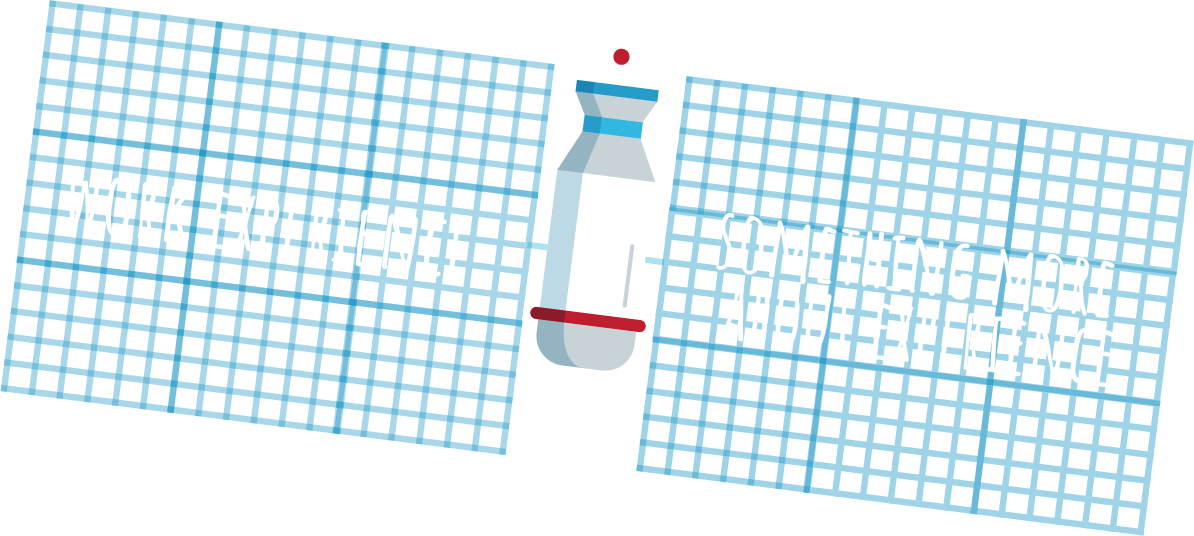
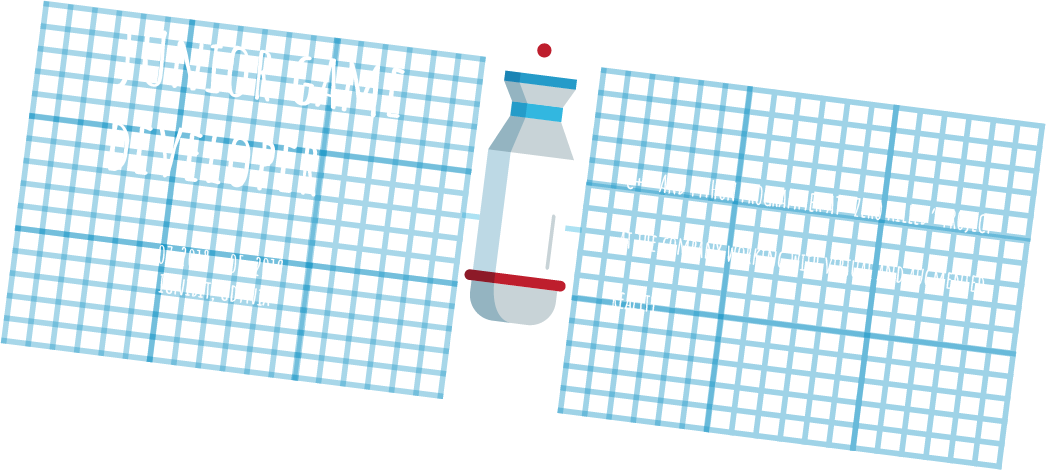
Added text

diff --git a/index.html b/index.html
@@ -75,7 +75,18 @@
                 <div class = "section-title"> Education </div>
             </div>
             <div class="center-layer">
-                <div id = "saturn"></div>
+                <div id = "saturn">
+                    <div id = "text-in-saturn">
+                        10.2016 - Now
+                        <br>
+                        Gdańsk University of Technology
+                        <br>
+                        Electronics and Telecommunication
+                        <br>
+                        Specialization:
+                        <br> Sound and Image Engineering
+                    </div>
+                </div>
             </div>
             <div class="margin-layer">
                 <table>
@@ -101,7 +112,7 @@
                             <th>
                                 <table>
                                     <tr>
-                                        <th>Skill 1</th>
+                                        <th>JavaScript</th>
                                         <th>
                                             <div class = "littlePlanet"></div>
                                             <div class = "littlePlanet"></div>
@@ -111,7 +122,7 @@
                                         </th>
                                     </tr>
                                     <tr>
-                                        <th>Skill 1</th>
+                                        <th>HTML</th>
                                         <th>
                                             <div class = "littlePlanet"></div>
                                             <div class = "littlePlanet"></div>
@@ -121,7 +132,7 @@
                                         </th>
                                     </tr>
                                     <tr>
-                                        <th>Skill 1</th>
+                                        <th>CSS</th>
                                         <th>
                                             <div class = "littlePlanet"></div>
                                             <div class = "littlePlanet"></div>
@@ -131,7 +142,7 @@
                                         </th>
                                     </tr>
                                     <tr>
-                                        <th>Skill 1</th>
+                                        <th>PHP</th>
                                         <th>
                                             <div class = "littlePlanet"></div>
                                             <div class = "littlePlanet"></div>
@@ -145,7 +156,7 @@
                             <th>
                                 <table>
                                     <tr>
-                                        <th>Skill 1</th>
+                                        <th>C++</th>
                                         <th>
                                             <div class = "littlePlanet"></div>
                                             <div class = "littlePlanet"></div>
@@ -155,7 +166,7 @@
                                         </th>
                                     </tr>
                                     <tr>
-                                        <th>Skill 1</th>
+                                        <th>C#</th>
                                         <th>
                                             <div class = "littlePlanet"></div>
                                             <div class = "littlePlanet"></div>
@@ -165,7 +176,7 @@
                                         </th>
                                     </tr>
                                     <tr>
-                                        <th>Skill 1</th>
+                                        <th>Java</th>
                                         <th>
                                             <div class = "littlePlanet"></div>
                                             <div class = "littlePlanet"></div>
@@ -175,7 +186,7 @@
                                         </th>
                                     </tr>
                                     <tr>
-                                        <th>Skill 1</th>
+                                        <th>Python</th>
                                         <th>
                                             <div class = "littlePlanet"></div>
                                             <div class = "littlePlanet"></div>
@@ -212,7 +223,9 @@
                     <div id="text-in-earth">
                         Patrycja Chojnacka
                          <br>
-                            Interactive CV
+                        Date of birth: 28.08.1997
+                        <br>
+                        Adress: Gdańsk, Poland
                     </div>
                 </div>
             </div>

diff --git a/style.css b/style.css
@@ -175,7 +175,6 @@ button:hover
     font-size: 30px;
 }
 
-
 #ufo
 {
     background-image: url("images/ufo.png");
@@ -184,6 +183,7 @@ button:hover
     width: 218px;
     top: -200px;
 }
+
 #alien
 {
     background-image: url("images/alien.png");
@@ -192,6 +192,15 @@ button:hover
     width: 169px;
     top: -200px;
     transform: rotate(-40deg);
+}
+
+
+#text-in-saturn
+{
+    text-align:center;
+    position: relative;
+    top: 20%;
+
 }
 
 

diff --git a/scripts/ufo.js b/scripts/ufo.js
@@ -51,7 +51,7 @@ class Ufo
         $("#ufo").css({ transform: 'rotate(180deg)' });
     }
 
-    playDownAnimationAfterWait(namOfTheContainer)
+    playDownAnimationAfterWait()
     {
         this.setStartingPositionOfDownAnimation()
         let interval = setInterval(function()
@@ -65,6 +65,6 @@ class Ufo
                     }
                 });
             clearInterval(interval);
-        }, 800)
+        }, 1600)
     }
 }
